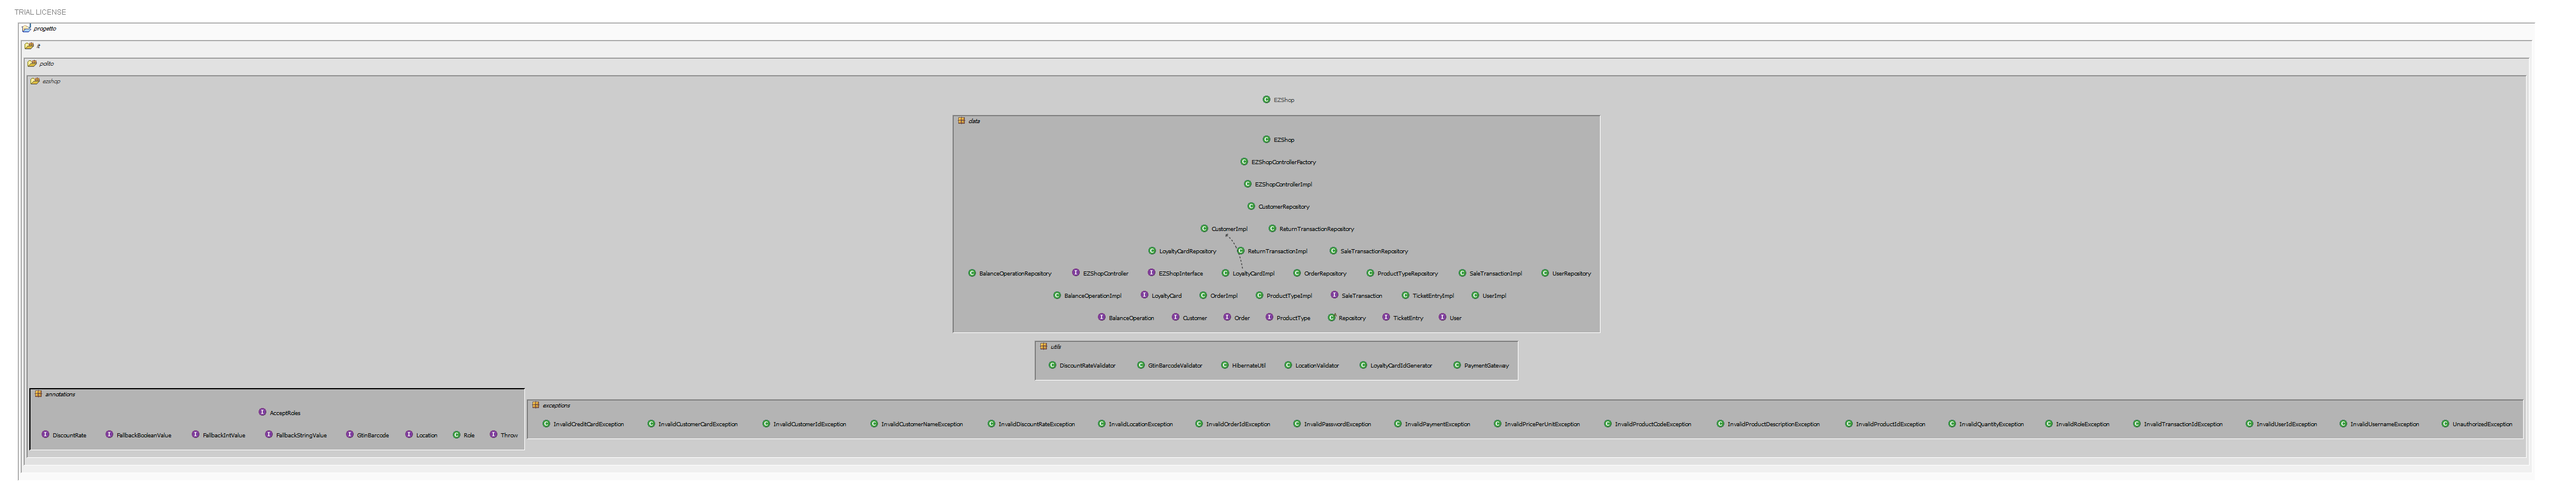
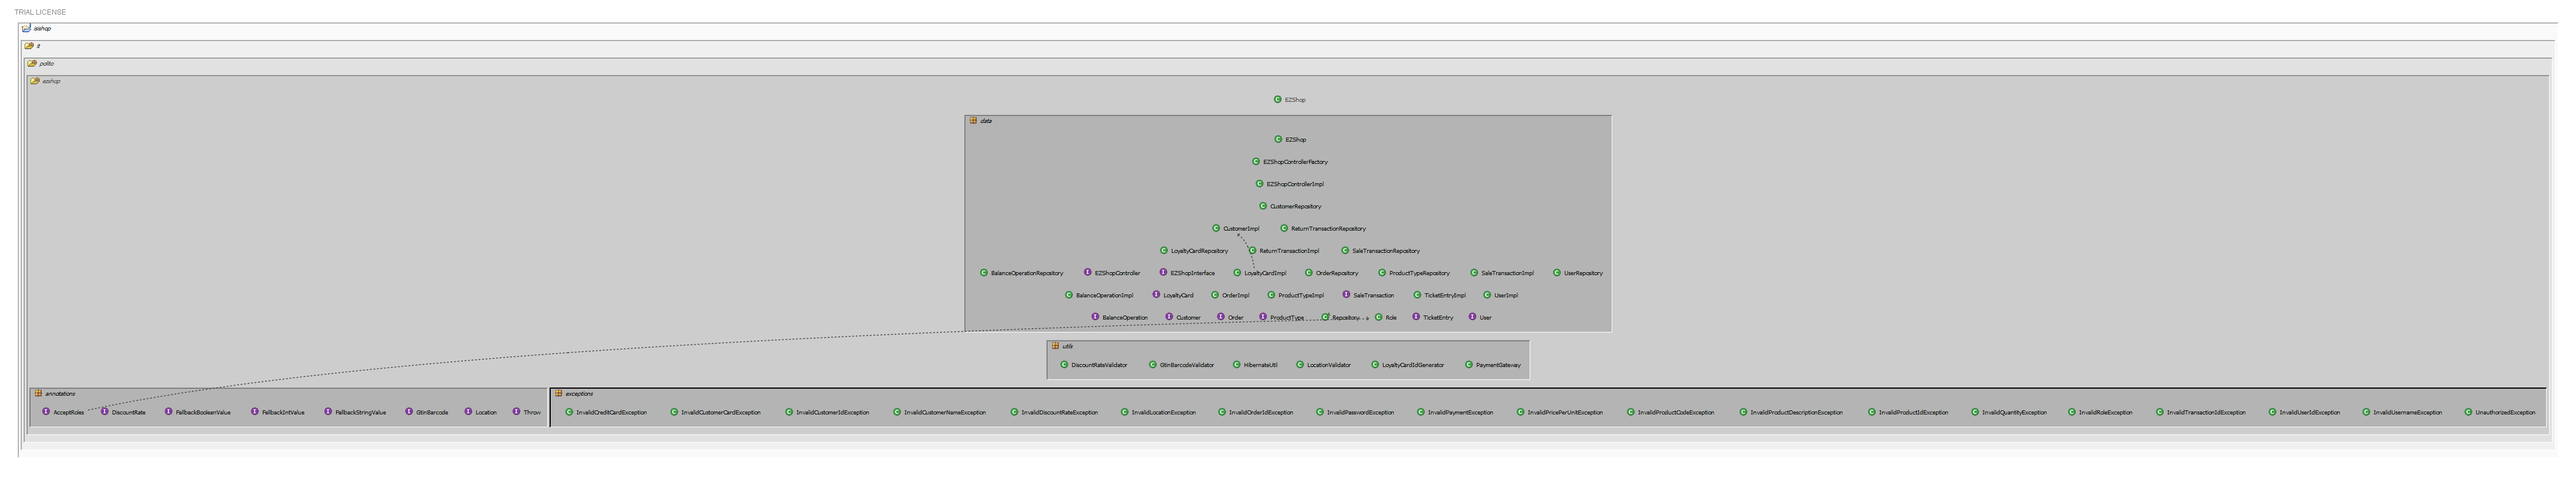
doc: updated assets and DesignAssessmentDocument.md

Changed region(s): [[0.0, 0.3049, 0.9998, 0.9146], [0.0, 0.0, 0.9998, 0.1829], [0.3749, 0.2134, 0.6249, 0.2439]]

diff --git a/Deliverables/DesignAssessmentDocument.md b/Deliverables/DesignAssessmentDocument.md
@@ -52,7 +52,7 @@ with all elements explosed, all dependencies, NO tangles; and report it here as 
 <Report screen captures of the package-level tangles by opening the items in the "composition perspective" 
 (double click on the tangle from the Views->Complexity page)>
 ```
-![](../assets/AssessmentDocument/package-level-tangles.png)
+![](../assets/AssessmentDocument/package-level-tangles2.png)
 # Summary analysis
 ```
 <Discuss here main differences of the current structure of your project vs the design delivered on April 30>
